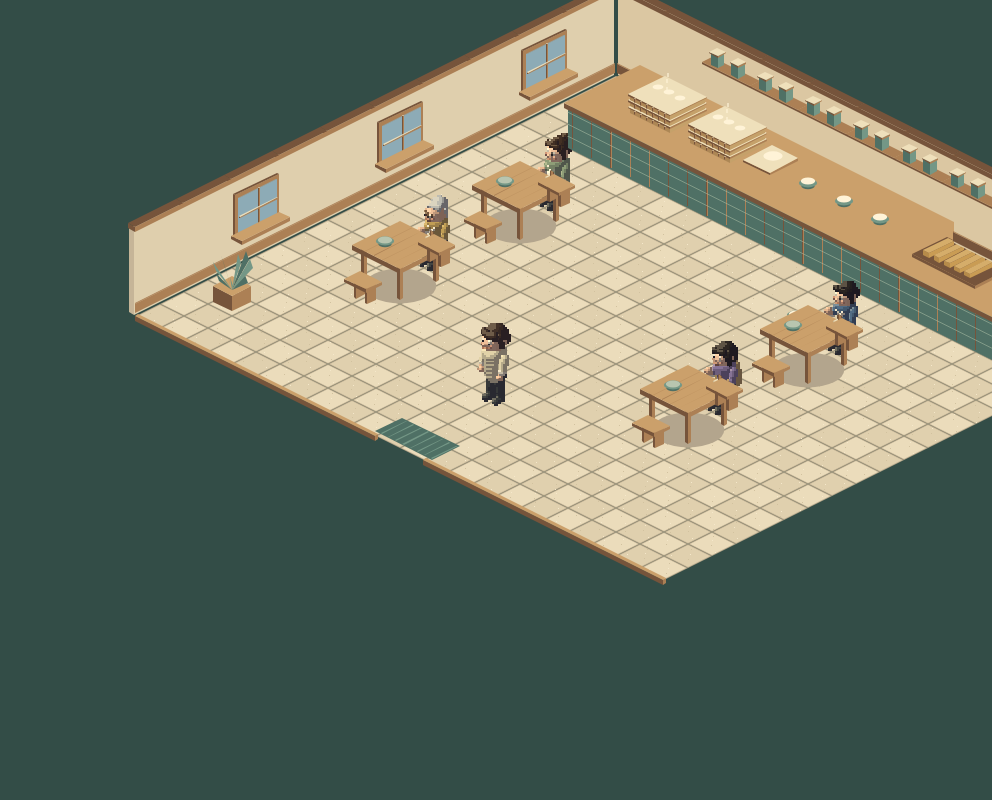
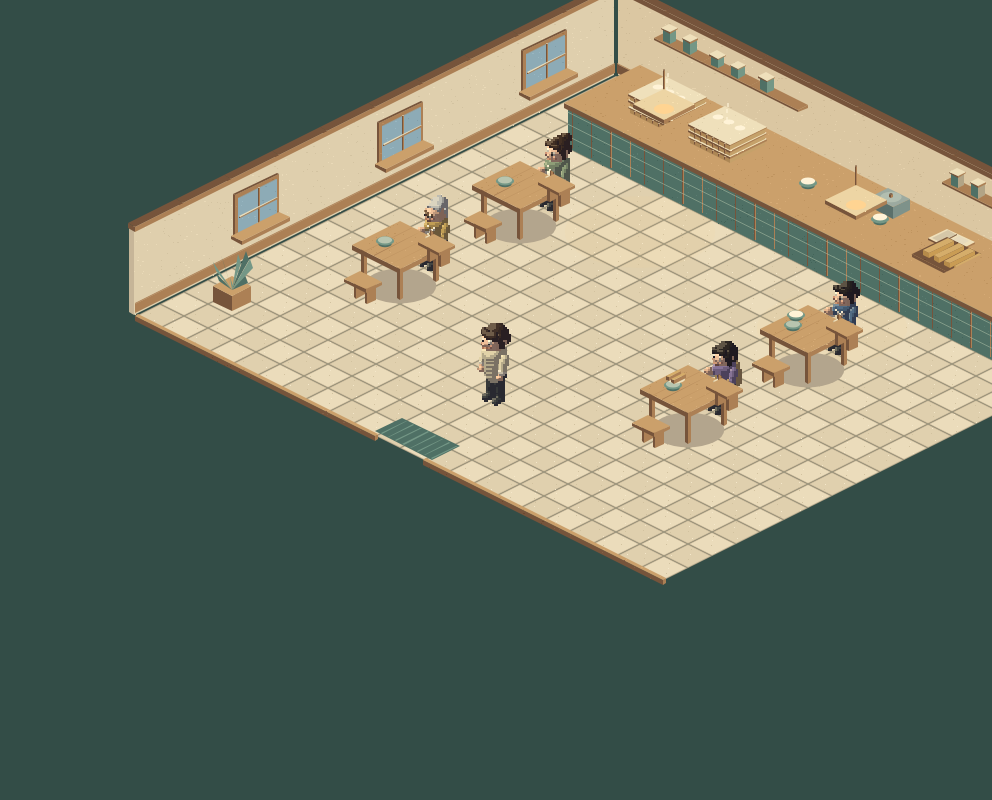
feat(restaurant): refine materials and split kitchen depth objects

diff --git a/src/world/art/restaurant/index.ts b/src/world/art/restaurant/index.ts
@@ -18,6 +18,11 @@ export function drawMap(ctx: CanvasRenderingContext2D, map: RestaurantMap, v: Re
       ctx.fillStyle=v.shadeColor?.(color) ?? color; ctx.fillRect(Math.round(s.x),Math.round(s.y),1,1);
     }
   }
+  for(const x of [8,16]) {
+    ctx.save();ctx.globalAlpha*=.07;
+    oval(ctx,{...v,shadeColor:undefined},x,7,.012,2.8,'#ffd492');
+    ctx.restore();
+  }
   box(ctx,v,1,20.92,-.16,10,.14,.2,p.woodLight);
   box(ctx,v,13,20.92,-.16,10,.14,.2,p.woodLight);
   polygon(ctx,v,[[10.8,19.7,.015],[13.2,19.7,.015],[13.2,20.85,.015],[10.8,20.85,.015]],p.jadeDark);
@@ -42,35 +47,69 @@ function counter(ctx: CanvasRenderingContext2D, v: RestaurantView, x: number, y:
   for(let a=.2;a<w;a+=.8) box(ctx,v,x+a,y+d+.005,.1,.025,.025,1.52,'#b3c4aa');
   for(let z=.5;z<1.65;z+=.5) box(ctx,v,x,y+d+.015,z,w,.02,.02,'#b3c4aa');
   box(ctx,v,x-.08,y-.08,1.68,w+.16,d+.16,.19,p.woodLight,p.woodDark,p.wood);
-  for (const a of [1.7,4.2]) {
+}
+
+function kitchenObjects(prop: RestaurantMap['props'][number]): RestaurantObject[] {
+  const {x,y}=prop.position,w=prop.width;
+  const fixtures: {id:string;x:number;draw:RestaurantObject['draw']}[] = [];
+  for(const a of [1.7,4.2]) fixtures.push({id:`steamer.${a}`,x:x+a+.8,draw(ctx,v) {
     for(let k=0;k<3;k++) {
       box(ctx,v,x+a,y+.65,1.87+k*.26,1.65,1.45,.23,'#dec28d','#ad8755','#c5a16a');
       box(ctx,v,x+a-.04,y+.61,2.06+k*.26,1.73,1.53,.06,p.cream);
       for(let j=.18;j<1.6;j+=.25) box(ctx,v,x+a+j,y+2.105,1.9+k*.26,.045,.02,.14,p.cream);
     }
     for(let n=0;n<3;n++) oval(ctx,v,x+a+.35+n*.45,y+1.3,2.72,.2,p.white);
-    if(!v.reducedMotion) for(let k=0;k<3;k++) {
-      const phase=(v.elapsedMs/3500+k/3)%1;
-      const s=v.project({x:x+a+.7+Math.sin(phase*7+k)*.12,y:y+1.3},2.9+phase*.9);
-      ctx.fillStyle='#fff3d799';ctx.fillRect(Math.round(s.x),Math.round(s.y),2,4);
+    for(let k=0;k<3;k++) {
+      const phase=((v.reducedMotion?0:v.elapsedMs)/3500+k/3)%1;
+      const at=v.project({x:x+a+.7+Math.sin(phase*7+k)*.12,y:y+1.3},2.9+phase*.9);
+      ctx.fillStyle='#fff3d799';ctx.fillRect(Math.round(at.x),Math.round(at.y),2,4);
     }
-  }
-  for(const a of [8.5,10,11.5]) bowl(ctx,v,x+a,y+1.5,1.93);
-  box(ctx,v,x+w-4.4,y+.8,1.87,2.6,1.45,.12,p.woodDark);
-  for(let k=0;k<5;k++) box(ctx,v,x+w-4.15+k*.43,y+1,2,.24,1.05,.19,p.brass,'#b68b4a','#c99c54');
-  box(ctx,v,x+6.1,y+.6,1.87,1.1,1.2,.1,p.cream);
-  oval(ctx,v,x+6.65,y+1.1,2.05,.36,p.white);
+  }});
+  for(const a of [8.5,10,11.5]) fixtures.push({id:`bowl.${a}`,x:x+a,draw(ctx,v){bowl(ctx,v,x+a,y+1.5,1.93);}});
+  fixtures.push({id:'youtiao',x:x+w-3,draw(ctx,v) {
+    box(ctx,v,x+w-4.4,y+.8,1.87,2.6,1.45,.12,p.woodDark);
+    for(let k=0;k<5;k++) box(ctx,v,x+w-4.15+k*.43,y+1,2,.24,1.05,.19,p.brass,'#b68b4a','#c99c54');
+  }});
+  fixtures.push({id:'cloth',x:x+6.65,draw(ctx,v) {
+    box(ctx,v,x+6.1,y+.6,1.87,1.1,1.2,.1,p.cream);
+    for(let i=0;i<5;i++) box(ctx,v,x+6.2+i*.15,y+.65,1.976,.04,1.08,.008,'#bbab8d');
+    oval(ctx,v,x+6.65,y+1.1,2.05,.36,p.white);
+  }});
+  fixtures.push({id:'ledger',x:x+13.75,draw(ctx,v) {
+    box(ctx,v,x+13.2,y+.4,1.88,1.15,.8,.06,p.cream);
+    box(ctx,v,x+13.3,y+.48,1.945,.4,.65,.012,'#d5c7a8');
+    box(ctx,v,x+13.78,y+.48,1.945,.4,.65,.012,'#e7dabd');
+    box(ctx,v,x+13.7,y+.5,1.98,.025,.7,.025,p.woodDark);
+  }});
+  fixtures.push({id:'pot',x:x+11.15,draw(ctx,v) {
+    box(ctx,v,x+10.7,y+.35,1.88,.9,.7,.48,'#9caaa0','#5a706b','#7e928a');
+    oval(ctx,v,x+11.15,y+.7,2.4,.4,'#b2beb0');
+    box(ctx,v,x+11.11,y+.65,2.4,.09,.09,.12,p.woodDark);
+  }});
+  return fixtures.map(f=>({id:`restaurant.kitchen.${f.id}`,position:{x:f.x,y:y+prop.height},draw:f.draw}));
 }
 
 export function renderObjects(map: RestaurantMap, _view: RestaurantView): RestaurantObject[] {
   if(map.id !== 'restaurant') return [];
-  const objects: RestaurantObject[] = map.props.map(prop => ({
+  const objects: RestaurantObject[] = map.props.flatMap(prop => {
+    if(prop.kind==='counter') {
+      const segments:RestaurantObject[]=[];
+      for(let offset=0;offset<prop.width;offset+=3) {
+        const width=Math.min(3,prop.width-offset),x=prop.position.x+offset,y=prop.position.y;
+        segments.push({id:offset===0?prop.id:`${prop.id}.section.${offset}`,
+          position:{x:x+width/2,y:y+prop.height},
+          occlusion:{rect:{x,y,width,height:prop.height},height:1.87,fadeWhenPlayerBehind:true},
+          draw(ctx,v){counter(ctx,v,x,y,width,prop.height);},
+        });
+      }
+      return [...segments,...kitchenObjects(prop)];
+    }
+    return [{
     id: prop.id, position: {x:prop.position.x+prop.width/2,y:prop.position.y+prop.height},
     occlusion: {rect:{...prop.position,width:prop.width,height:prop.height},height:prop.kind==='counter'?2.8:1.9,fadeWhenPlayerBehind:true},
     draw(ctx,v) {
       const {x,y}=prop.position;
       if(prop.kind==='table') table(ctx,v,x,y,prop.width,prop.height);
-      else if(prop.kind==='counter') counter(ctx,v,x,y,prop.width,prop.height);
       else {
         box(ctx,v,x,y,0,.8,.8,.65,p.woodLight);
         for(let k=0;k<8;k++) {
@@ -80,24 +119,29 @@ export function renderObjects(map: RestaurantMap, _view: RestaurantView): Restau
         }
       }
     },
-  }));
+  }];
+  });
   for(let x=1;x<23;x+=2) objects.push({
     id:`restaurant.wall.back.${x}`,position:{x:x+1,y:1},
+    occlusion:{rect:{x,y:.7,width:2,height:.7},height:3.68,fadeWhenPlayerBehind:true},
     draw(ctx,v) {
       box(ctx,v,x,.7,0,2,.22,3.5,p.cream,'#dbc7a2','#dfcfad');
       box(ctx,v,x,.65,3.5,2,.32,.18,p.woodDark);
       box(ctx,v,x,.94,.1,2,.025,.4,p.wood);
-      if(x>3&&x<21) {
+      if([3,5,7,15,17,19].includes(x)) {
         box(ctx,v,x,1,2.68,2,.4,.12,p.wood);
-        for(const a of [.3,1.15]) {
-          box(ctx,v,x+a,1.08,2.8,.3,.28,.48,p.jade,p.jadeDark,p.jade);
-          box(ctx,v,x+a-.03,1.05,3.28,.36,.34,.06,p.cream);
+        for(const a of (x===7||x===19?[.35]:[.3,1.15])) {
+          const height=x===5?.37:x===17?.61:.48;
+          const glaze=x<8?p.jade:'#b2a486';
+          box(ctx,v,x+a,1.08,2.8,.3,.28,height,glaze,p.jadeDark,glaze);
+          box(ctx,v,x+a-.03,1.05,2.8+height,.36,.34,.06,p.cream);
         }
       }
     },
   });
   for(let y=1;y<21;y+=2) objects.push({
     id:`restaurant.wall.left.${y}`,position:{x:1,y:y+1},
+    occlusion:{rect:{x:.7,y,width:.7,height:2},height:3.68,fadeWhenPlayerBehind:true},
     draw(ctx,v) {
       box(ctx,v,.7,y,0,.22,2,3.5,p.cream,'#c6b598','#dfcfad');
       box(ctx,v,.65,y,3.5,.32,2,.18,p.woodDark);
@@ -109,6 +153,17 @@ export function renderObjects(map: RestaurantMap, _view: RestaurantView): Restau
         box(ctx,v,1.09,y+.2,2.04,.04,1.6,.07,p.cream);
         box(ctx,v,.96,y,1.17,.44,2,.14,p.woodLight);
       }
+    },
+  });
+  for(const x of [8,16]) objects.push({
+    id:`restaurant.lamp.${x}`,position:{x,y:6},depth:map.bounds.width+map.bounds.height,
+    occlusion:{rect:{x:x-.6,y:5.4,width:1.2,height:1.2},height:5.2,fadeWhenPlayerBehind:true},
+    draw(ctx,v) {
+      box(ctx,v,x-.03,5.97,5.1,.06,.06,1.15,p.woodDark);
+      box(ctx,v,x-.2,5.8,5.02,.4,.4,.17,p.cream);
+      box(ctx,v,x-.4,5.6,4.82,.8,.8,.2,p.cream);
+      box(ctx,v,x-.65,5.35,4.65,1.3,1.3,.17,'#edd5a4');
+      oval(ctx,{...v,shadeColor:undefined},x,6,4.64,.38,'#ffd492');
     },
   });
   return objects;

diff --git a/src/world/art/restaurant/primitives.ts b/src/world/art/restaurant/primitives.ts
@@ -20,6 +20,9 @@ export function box(ctx: CanvasRenderingContext2D, v: RestaurantView, x: number,
   polygon(ctx,v,[[x,y+d,z],[x+w,y+d,z],[x+w,y+d,z+h],[x,y+d,z+h]],left);
   polygon(ctx,v,[[x+w,y,z],[x+w,y+d,z],[x+w,y+d,z+h],[x+w,y,z+h]],right);
   polygon(ctx,v,[[x,y,z+h],[x+w,y,z+h],[x+w,y+d,z+h],[x,y+d,z+h]],top);
+  if (w*d > 1) texture(ctx,v,x,y,z+h,w,d,top,'top');
+  if (w*h > 1) texture(ctx,v,x,y+d,z,w,h,left,'front');
+  if (d*h > 1) texture(ctx,v,x+w,y,z,d,h,right,'side');
 }
 export function oval(ctx: CanvasRenderingContext2D, v: RestaurantView, x: number, y: number, z: number, radius: number, color: string) {
   const p=v.project({x,y},z), edge=v.project({x:x+radius,y},z);
@@ -30,4 +33,18 @@ export function bowl(ctx: CanvasRenderingContext2D, v: RestaurantView, x: number
   oval(ctx,v,x,y,z,.25,palette.jadeDark);
   oval(ctx,v,x,y,z+.13,.34,palette.jade);
   oval(ctx,v,x,y,z+.18,.27,filled ? palette.white : '#b8c5af');
+}
+
+function texture(ctx: CanvasRenderingContext2D, v: RestaurantView, x: number, y: number, z: number, w: number, h: number, base: string, face: 'top' | 'front' | 'side') {
+  const rgb=[1,3,5].map(i=>parseInt(base.slice(i,i+2),16));
+  const count=Math.floor(w*h*7);
+  for(let i=0;i<count;i++) {
+    const seed=Math.sin(i*127.1+x*19.3+y*31.7+z*11.1)*43758.5453;
+    const a=seed-Math.floor(seed),b=((i*47+31)%101)/101;
+    const point=face==='top'?v.project({x:x+a*w,y:y+b*h},z):face==='front'?v.project({x:x+a*w,y},z+b*h):v.project({x,y:y+a*w},z+b*h);
+    const shift=a>.5?11:-12;
+    const color='#'+rgb.map(c=>Math.max(0,Math.min(255,c+shift)).toString(16).padStart(2,'0')).join('');
+    ctx.fillStyle=v.shadeColor?.(color)??color;
+    ctx.fillRect(Math.round(point.x),Math.round(point.y),1+(i%5===0?1:0),1);
+  }
 }

diff --git a/src/world/art/restaurant/types.ts b/src/world/art/restaurant/types.ts
@@ -7,7 +7,7 @@ export type RestaurantMap = {
 };
 export type RestaurantView = {
   project(point: Position, z?: number): Position;
-  shadeColor?(base: string | readonly [number, number, number], exposure?: number): string;
+  shadeColor?(base: string, exposure?: number): string;
   elapsedMs: number;
   reducedMotion: boolean;
   playerPosition: Position;

diff --git a/docs/evidence/0089/ledger.md b/docs/evidence/0089/ledger.md
@@ -59,3 +59,13 @@ Shared lighting callback is now optional on the structural view for old isolated
 First preview captures used /usr/bin/chromium because Playwright's managed executable was absent. `node docs/evidence/0089/capture.mjs` produced desktop, phone, kitchen and reduced-motion PNGs with no page errors. The preview copies the e627 restaurant map and uses actual foundation camera scales 24 desktop and 18 phone plus the same production legacy actor sprite crop/factor. It does not reproduce production collision or its occlusion compositor. It is evidence for art refinement only. Inspection found a meal/table equal-depth tie, fixed by placing meal objects .01 beyond their table support depth. Material detail and warm-light polish continue.
 
 Vite is running as exec session 49941 on strict port 5493. No standalone preview acceptance is claimed.
+
+## Material and per-object refinement
+
+Counter geometry is now six individually sorted three-unit sections. The first retains `counter` to suppress the generic fallback, and the remaining IDs are counter.section.3 through counter.section.15. Individual kitchen fixtures have separate support objects. Wall sections have local occlusion bounds. Two ceiling lamps have their own narrow bounds and explicit overhead depth. Warm lamp pools use inherited alpha and fixed emissive color. Static materials use the shared shadeColor callback. Reduced motion freezes steam at time zero while retaining its visible wisps.
+
+Added deterministic one-pixel plaster and wood variation, less repetitive jar groups, a folded cloth, a kitchen pot and a blank ledger with pencil. No text is painted. Desk and kitchen food remain original geometry. The assigned map and all colliders are unchanged.
+
+`node node_modules/vitest/vitest.mjs run` passed 27 files and 310 tests. `node node_modules/typescript/bin/tsc -b` and `node node_modules/vite/bin/vite.js build` passed. Refreshed four browser captures have no page errors. Installed runtime reports Node 24.22.1, TypeScript 5.9.3, Vite 7.3.7, Vitest 3.2.7 and Playwright 1.61.1. This is use of the installed environment, not a frozen dependency install.
+
+Draft PR is https://github.com/CallumHemsley/junyan/pull/35 against the coordinator branch. Opened with GitHub connector. No merge. Current independent and production gates remain unverified. Foundation is wiring the projection while art refinement continues.
